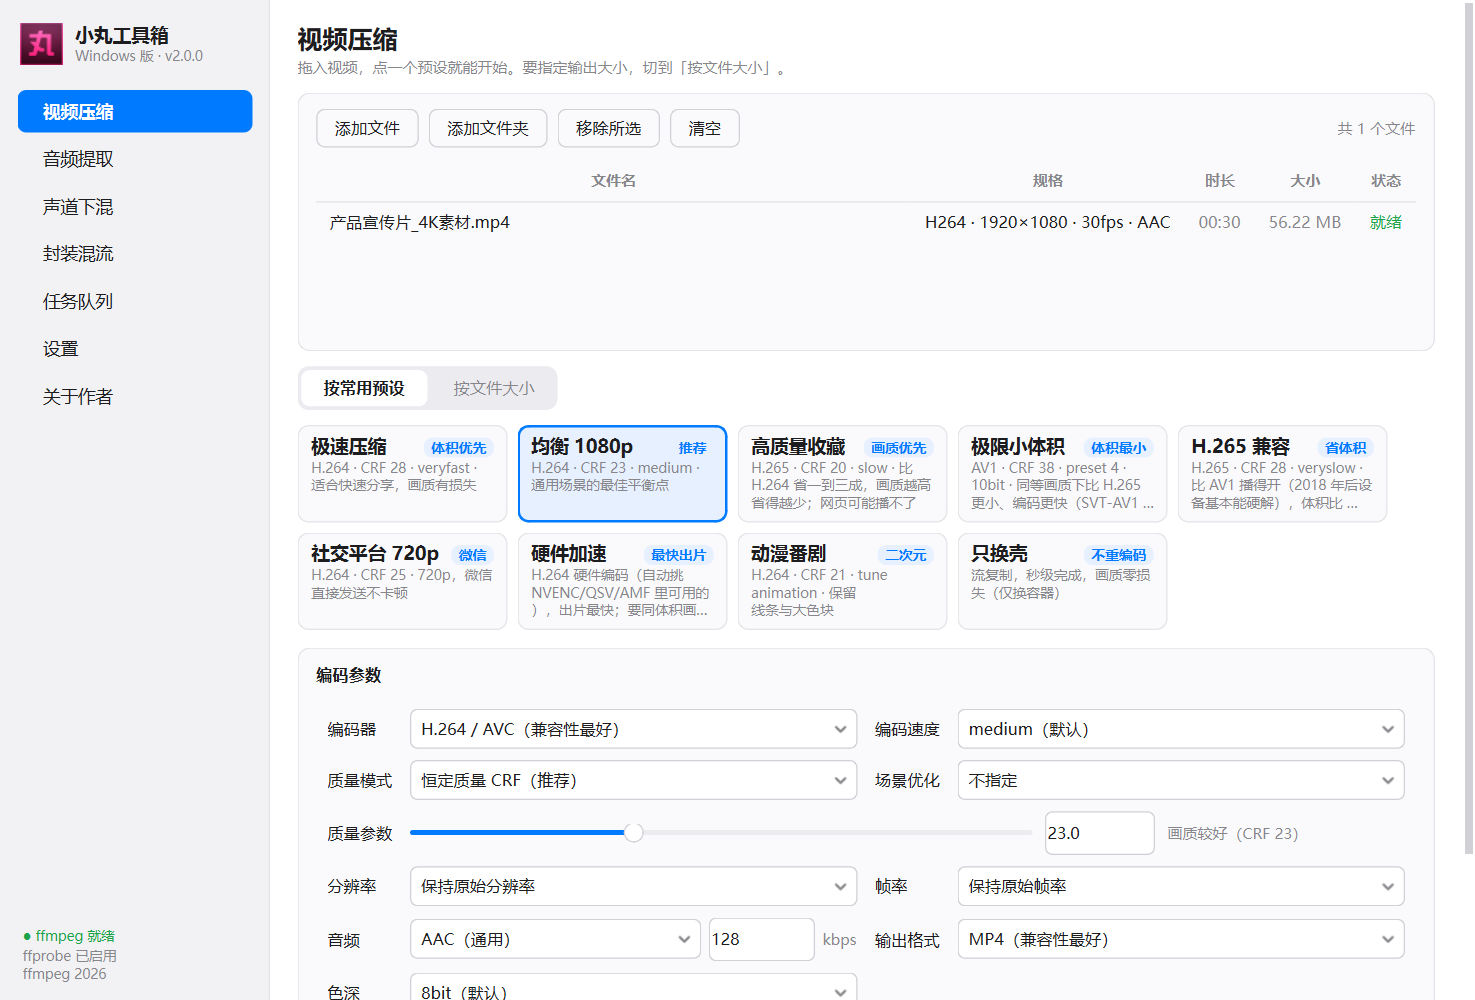
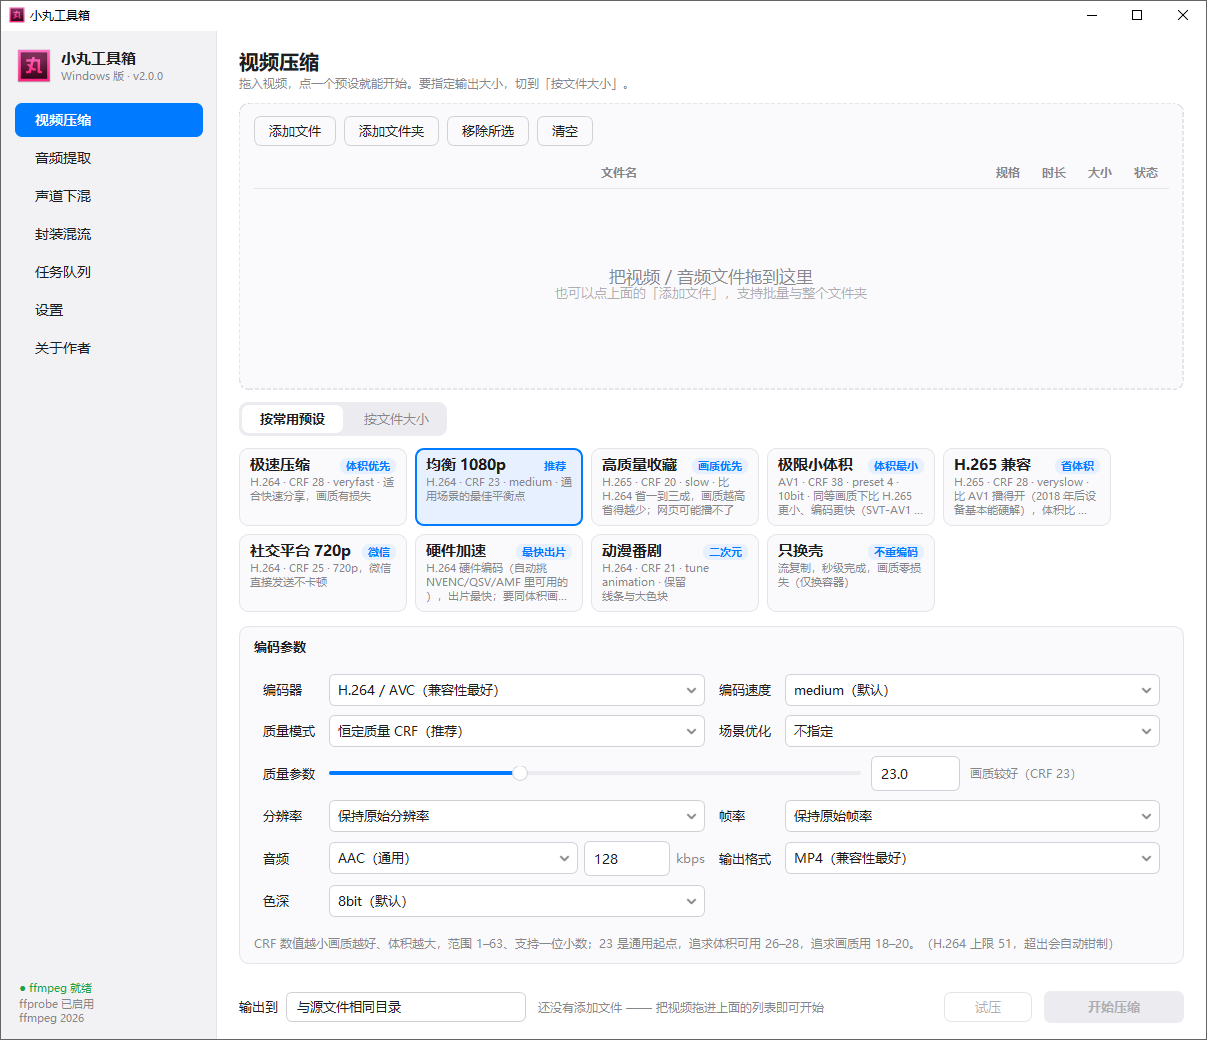
更新说明

diff --git a/README.md b/README.md
@@ -11,18 +11,42 @@ Windows 上经典视频压缩工具「小丸工具箱」的重制版，**macOS /
 
 ![压缩页](_shots/1_压缩.png)
 
+![压缩页](_shots/2_压缩.png)
+
 ## 下载安装
 
 | 平台 | 怎么装 |
 | --- | --- |
-| **Windows** | 下载 [`XiaoWanToolbox-2.0.0.exe`](https://github.com/axutongxue/xiaowan-toolbox/releases/latest)（约 208 MB，单文件免安装）双击即用。自带 ffmpeg，装完直接能用 |
-| **macOS** | 官方不提供现成 `.app`，需要在本机跑一次构建（约 2–5 分钟），见下方 [macOS 章节](#macos)。产出的 `.app` 自带 ffmpeg，可随意拷给别人 |
+| **Windows** | 下载 [`XiaoWanToolbox-2.0.0.exe`](https://github.com/axutongxue/xiaowan-toolbox/releases/latest)（约 37 MB，单文件免安装）双击即用。**不含 ffmpeg**，首次使用前需自行安装（见下方 [ffmpeg 说明](#ffmpeg-从哪来)） |
+| **macOS** | 下载 [`XiaoWanToolbox-2.0.0-mac.zip`](https://github.com/axutongxue/xiaowan-toolbox/releases/latest)，解压后双击「打包小丸工具箱.command」生成 `.app`（约 3–8 分钟，pip 全程离线）。**不含 ffmpeg**，需要本机已装（`brew install ffmpeg`） |
 
 全部版本与下载：<https://github.com/axutongxue/xiaowan-toolbox/releases>
 
-> 🔴 **发布包必须用英文名**（如 `XiaoWanToolbox-2.0.0.exe`）：GitHub Release 会剥掉
-> 资产名里的非 ASCII 字符，中文名 `小丸工具箱-2.0.0.exe` 会被削成 `-2.0.0-.exe`。
-> 程序本身的界面、窗口标题、安装后的快捷方式全是中文，不受影响。
+## ffmpeg 从哪来
+
+**本项目的发布包不含 ffmpeg**（它体积太大：单文件 219 MB，会让 exe 从 37 MB 涨到 208 MB）。
+程序启动时按下面的顺序自动找，找到就用：
+
+1. 「设置」页手动指定的路径
+2. 环境变量 `XIAOWAN_FFMPEG` / `XIAOWAN_FFPROBE`
+3. **程序目录下的 `bin/ffmpeg`**（想内置的话把文件放这儿再打包即可）
+4. 系统 `PATH`
+5. **macOS 常见安装位置**：`/opt/homebrew/bin`、`/usr/local/bin`、`/opt/local/bin`
+   （Finder 双击 .app 时 PATH 很窄，所以这几个目录是硬编码查找的）
+6. `imageio-ffmpeg` 包自带的静态 ffmpeg（兜底，仅 ffmpeg 本体）
+
+**没找到也不会崩**：侧栏会显示「● 未找到 ffmpeg」，点进「设置」即可手动指定路径。
+
+安装方式：
+
+| 平台 | 命令 |
+| --- | --- |
+| Windows | 从 [gyan.dev](https://www.gyan.dev/ffmpeg/builds/) 或 [BtbN](https://github.com/BtbN/FFmpeg-Builds/releases) 下 `ffmpeg.exe` / `ffprobe.exe`，放进任意目录并加入 `PATH`，或在「设置」里指定 |
+| macOS | `brew install ffmpeg` |
+| Linux | `sudo apt install ffmpeg`（或发行版对应命令）|
+
+> 需要 **ffprobe** 才能快速读取媒体信息；只有 ffmpeg 时会降级用 `ffmpeg -i` 解析，
+> 功能不变，只是首次扫描大文件稍慢。Homebrew / 官方构建通常两者都有。
 
 ## 功能
 
@@ -42,8 +66,8 @@ Windows 上经典视频压缩工具「小丸工具箱」的重制版，**macOS /
 
 ### 方式一：单文件 exe（推荐）
 
-下载 `小丸工具箱-2.0.0.exe`（约 208 MB，单文件免安装）双击即用，自带 ffmpeg。
-每次启动会先解压内置 ffmpeg，首次启动稍慢几秒（之后有缓存）。
+下载 `XiaoWanToolbox-2.0.0.exe`（约 37 MB，单文件免安装）双击即用。
+**不含 ffmpeg**，需要本机已安装（见 [ffmpeg 从哪来](#ffmpeg-从哪来)）。
 
 ### 方式二：安装程序（备选）
 
@@ -63,7 +87,8 @@ Windows 上经典视频压缩工具「小丸工具箱」的重制版，**macOS /
 ### 方式二：目录式（便携）
 
 `python packaging\build_windows.py --onedir` 打出 `dist\小丸工具箱\` 目录，
-启动更快（不用每次解压）；整个文件夹拷给别人也能直接用。
+启动更快（不用每次解压）。若打包时 `bin\ffmpeg.exe` 在场，整个文件夹拷给别人
+也能直接用；否则对方同样需要自己装 ffmpeg。
 
 ### 从源码运行
 
@@ -103,7 +128,6 @@ ISCC.exe packaging\xiaowan_setup.iss
 ## macOS
 
 macOS 上不提供现成的 `.app`（未做 Apple 公证，跨机分发体验不好），需要**在本机跑一次构建**。
-构建产物 `小丸工具箱.app` 自带 ffmpeg，之后可以随意拷到别的 Mac 上。
 
 ### 方式一：离线打包 zip（推荐）
 
@@ -115,9 +139,14 @@ cd ~/Downloads/xiaowan-toolbox    # 换成你实际解压的位置
 bash 打包小丸工具箱.command
 ```
 
-全程不用联网 —— 包里已预置 mac 版 ffmpeg/ffprobe（arm64 + x86_64 各一份）
-和全部 Python 依赖 wheel。约 3~8 分钟后得到 `dist/小丸工具箱.app` 和 `dist/小丸工具箱.zip`。
-唯一前提是本机有 Python 3.10+（macOS 12.3+ 自带 `python3` 通常够用）。
+**pip 全程不联网** —— 包里预置了全部 Python 依赖 wheel（约 179 MB，含两个架构的
+imageio-ffmpeg）。约 3~8 分钟后得到 `dist/小丸工具箱.app` 和 `dist/小丸工具箱.zip`。
+
+前提（两条）：
+
+1. 本机有 Python 3.10+（macOS 12.3+ 自带 `python3` 通常够用）
+2. 本机有 ffmpeg：`brew install ffmpeg` —— **发布包不含 ffmpeg**，
+   `.app` 运行时也会自己去 Homebrew / PATH / 设置页找，所以装一次两边都够用
 
 ### 方式二：源码构建（会自己装 Homebrew 的 ffmpeg）
 
@@ -171,13 +200,16 @@ bash packaging/build_macos.sh --dmg    # 顺便生成 dist/小丸工具箱.dmg
 复制进 `bin/` → 用 `sips`+`iconutil` 生成应用图标 → PyInstaller 打包 → 本地临时签名。
 
 完成后把 `dist/小丸工具箱.app` 拖进「应用程序」文件夹即可。
-**这个 .app 里已经带了 ffmpeg，拷到没装过 Homebrew 的 Mac 上也能直接跑。**
+
+> **两种 mac 构建方式的区别**：
+> `build_macos.sh`（本节）默认**把 ffmpeg 复制进 .app**（`.app` 约 165 MB，拷给别人能直接用）；
+> 加 `--no-ffmpeg` 则与上面「方式一」的 `.command` 一致 —— 不带 ffmpeg，靠运行时检测。
 
 构建常见卡点：
 
 | 现象 | 原因 / 处理 |
 | --- | --- |
-| `未找到 ffmpeg` 并退出 | 忘了 `brew install ffmpeg`；或想跳过内置：`bash packaging/build_macos.sh --no-ffmpeg`（那台机器要自己装 ffmpeg） |
+| `未找到 ffmpeg` 并退出 | 这是 `build_macos.sh`（默认会内置 ffmpeg）的报错：`brew install ffmpeg`，或加 `--no-ffmpeg` 改成不内置<br>（用 `打包小丸工具箱.command` 时不会报错退出，只会警告） |
 | `command not found: python3` | 先跑 `xcode-select --install` |
 | 卡在 `pip install` | 网络问题，可换源：`export PIP_INDEX_URL=https://pypi.tuna.tsinghua.edu.cn/simple` |
 | `sips` / `iconutil` 报错 | 这两个是 macOS 自带工具，报错一般是上一步的 `icon.png` 没生成，重跑一次即可（图标本来也不是必需） |
